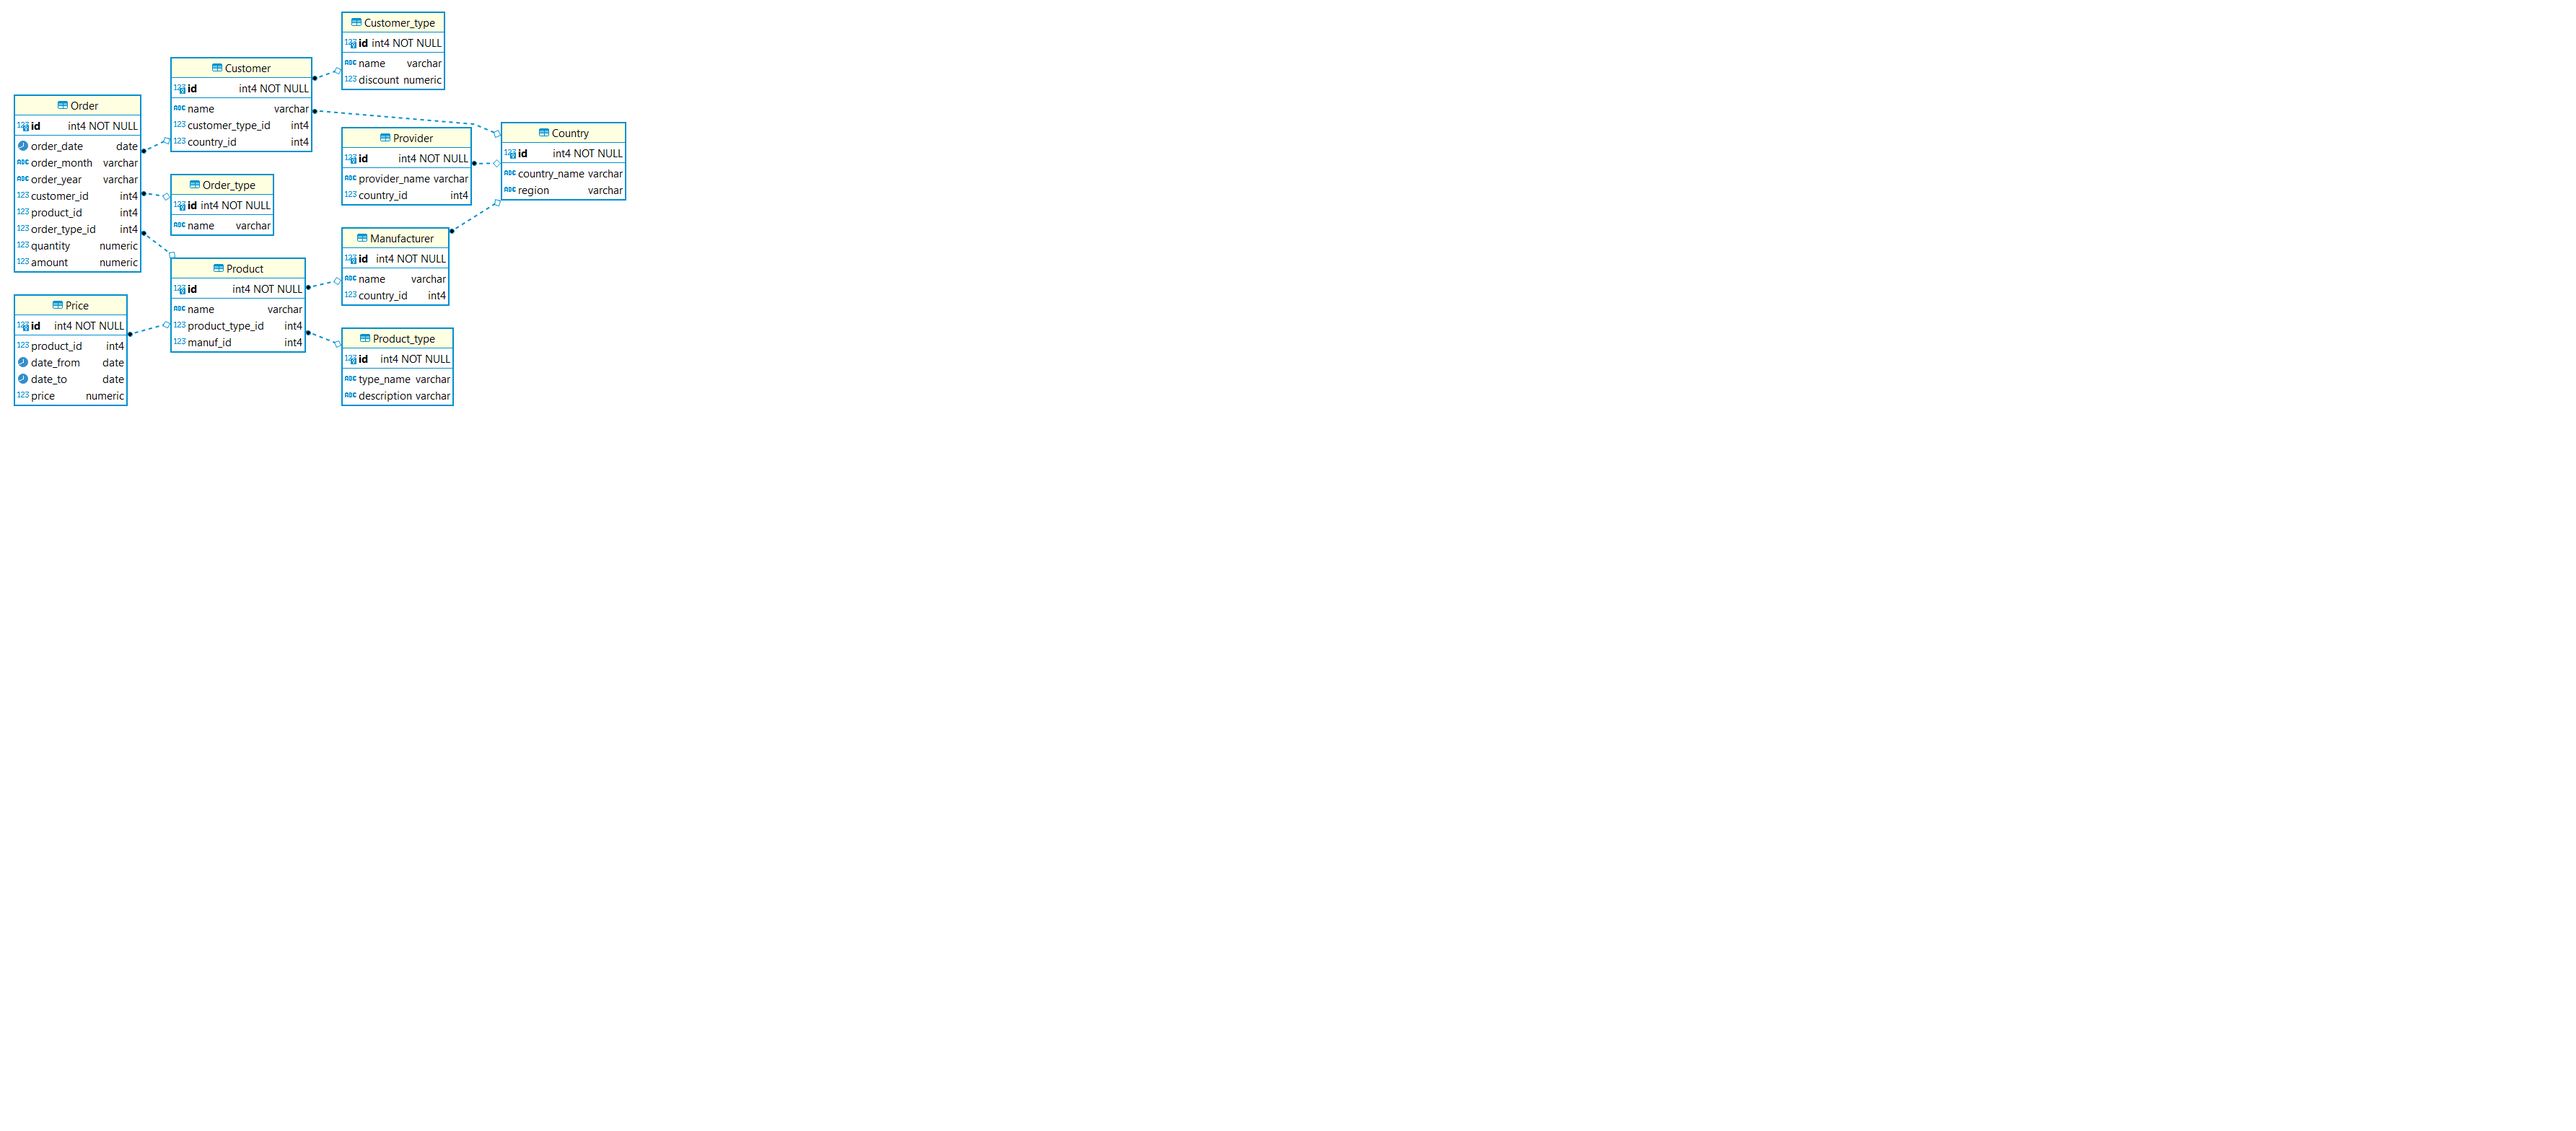
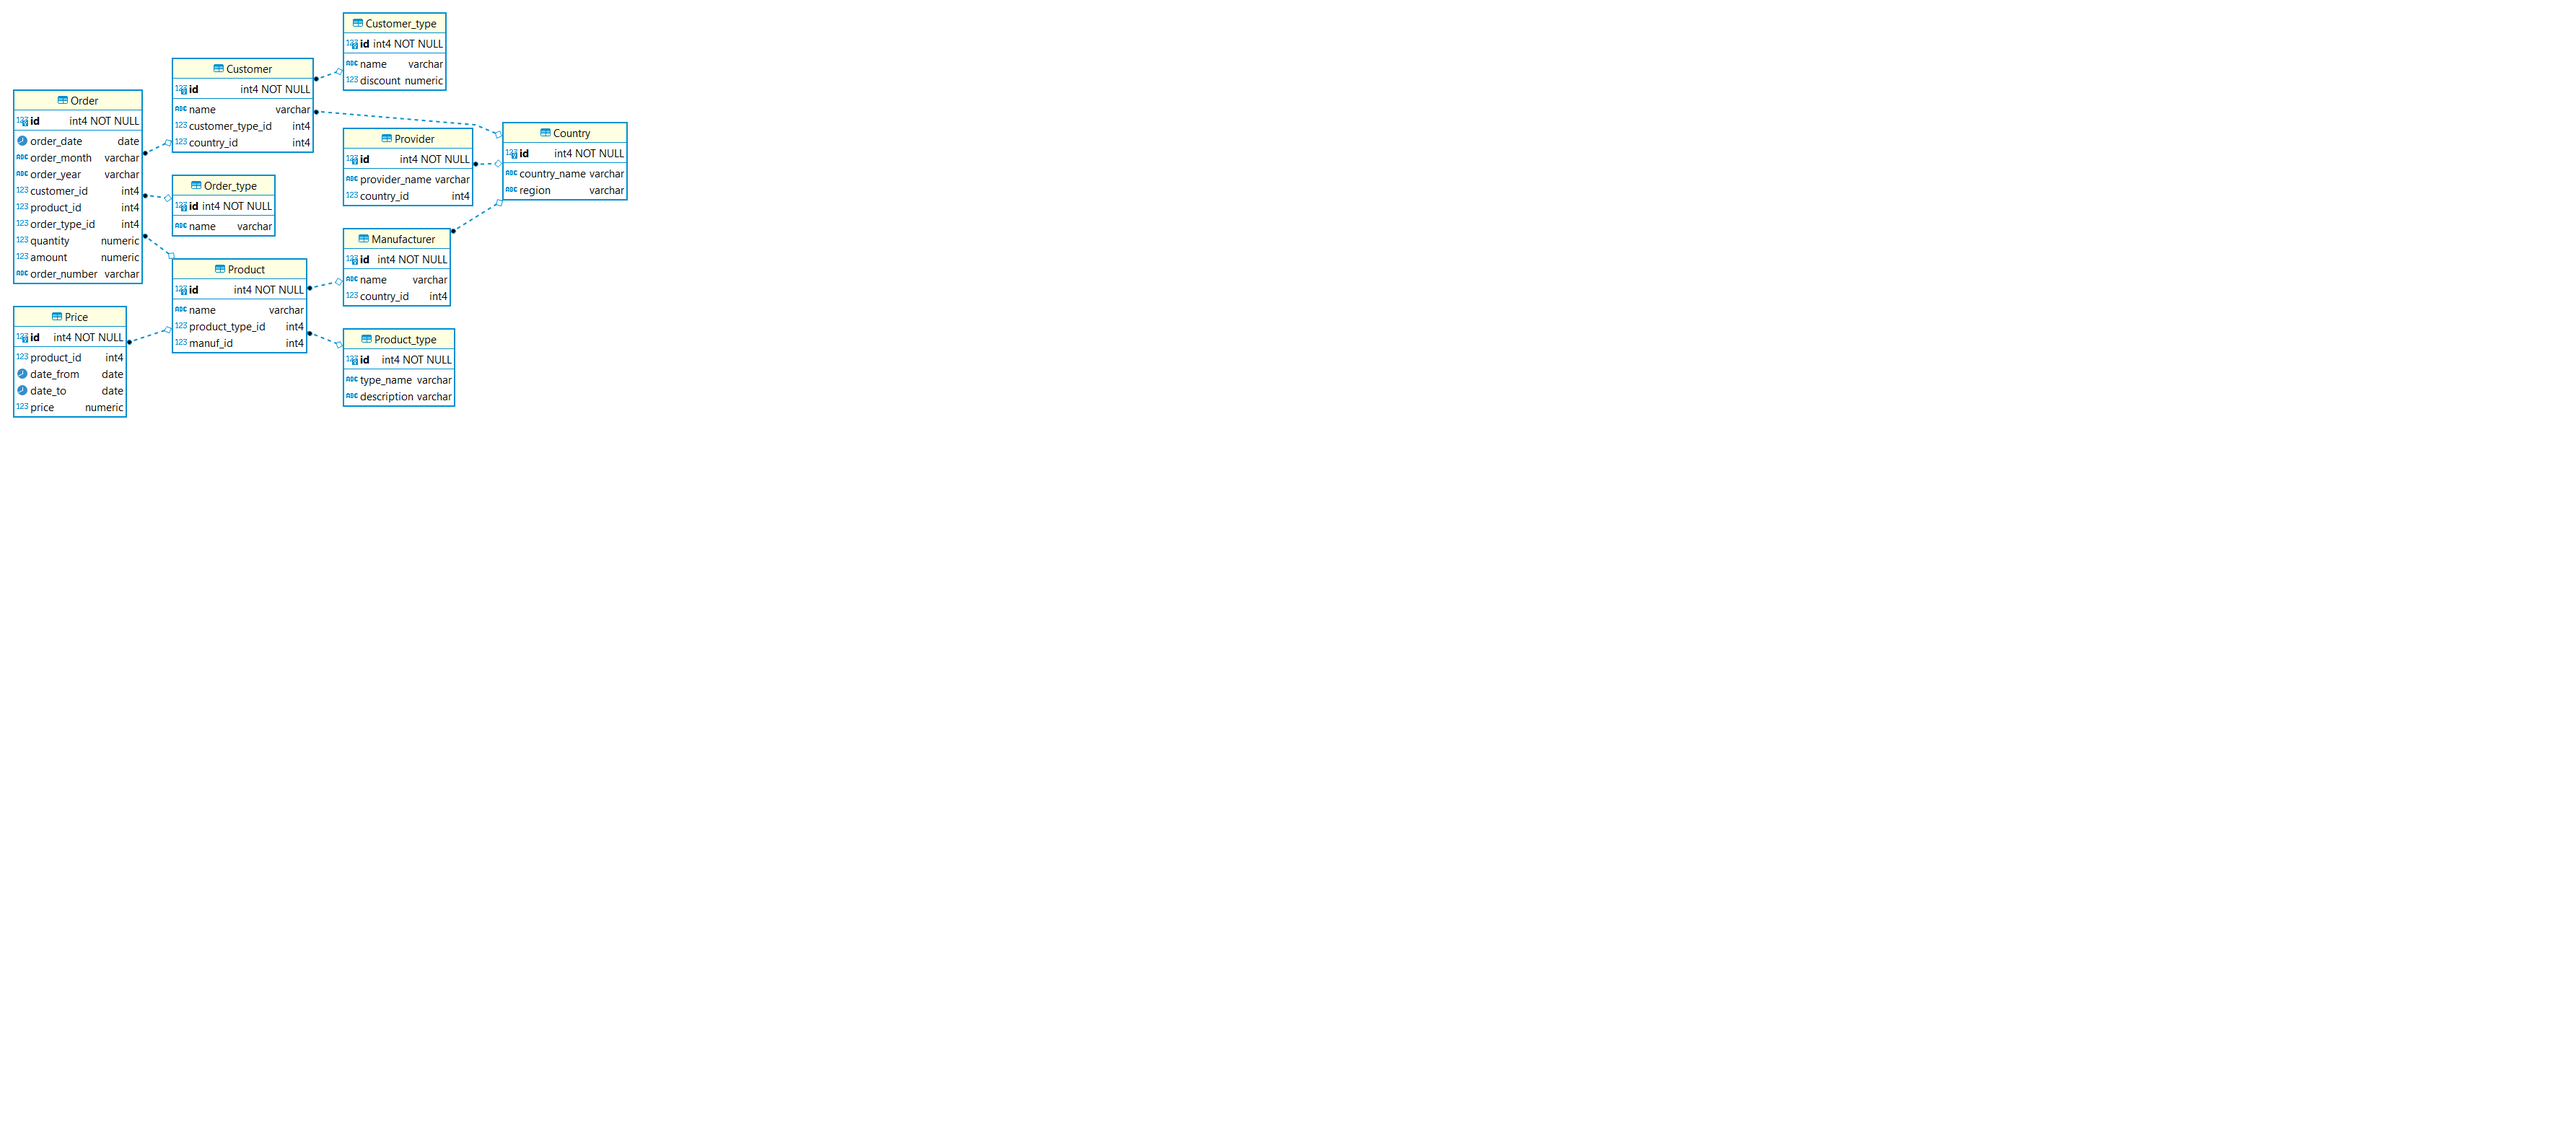
v4

Changed region(s): [[0.0, 0.0, 0.2487, 0.375]]

diff --git a/README.md b/README.md
@@ -26,4 +26,64 @@
 * Price - Цена
 * Product_ID - Продукт
 
+### Provider. 
+Содержит список поставщиков . 
+Структура
+* ID - первичный ключ
+* Name - Наименование
+* Country_ID - Код страны
+
+### Manufacturer. 
+Содержит список производителей . 
+Структура
+* ID - первичный ключ
+* Name - Наименование
+* Country_ID - Код страны
+
+### Customer. 
+Содержит список покупателей . 
+Структура
+* ID - первичный ключ
+* Name - Наименование
+* Customer_type_ID - Категория покупателя
+* Country_ID - Код страны
+
+### Customer_type. 
+Содержит список категорий покупателей . 
+Структура
+* ID - первичный ключ
+* Name - Наименование
+* Discount - Размер скидки в %
+
+### Order. 
+Содержит список заказов . 
+Структура
+* ID - первичный ключ (позиция заказа)
+* Order_number - Номер заказа
+* Order_date - дата заказа 
+* Month - месяц заказа
+* Year - год заказа
+* Customer_ID - Покупатель
+* Product_ID - Товар
+* Order_type_ID - Тип заказа
+* Quantity - Количество
+* Amount - сумма
+
+### Order_type. 
+Содержит список типов заказов . 
+Структура
+* ID - первичный ключ
+* Name - Наименование
+
+### Country. 
+Содержит список стран . 
+Структура
+* ID - первичный ключ
+* Name - Наименование
+* Region - Регион
+
+
+
+
+
 
